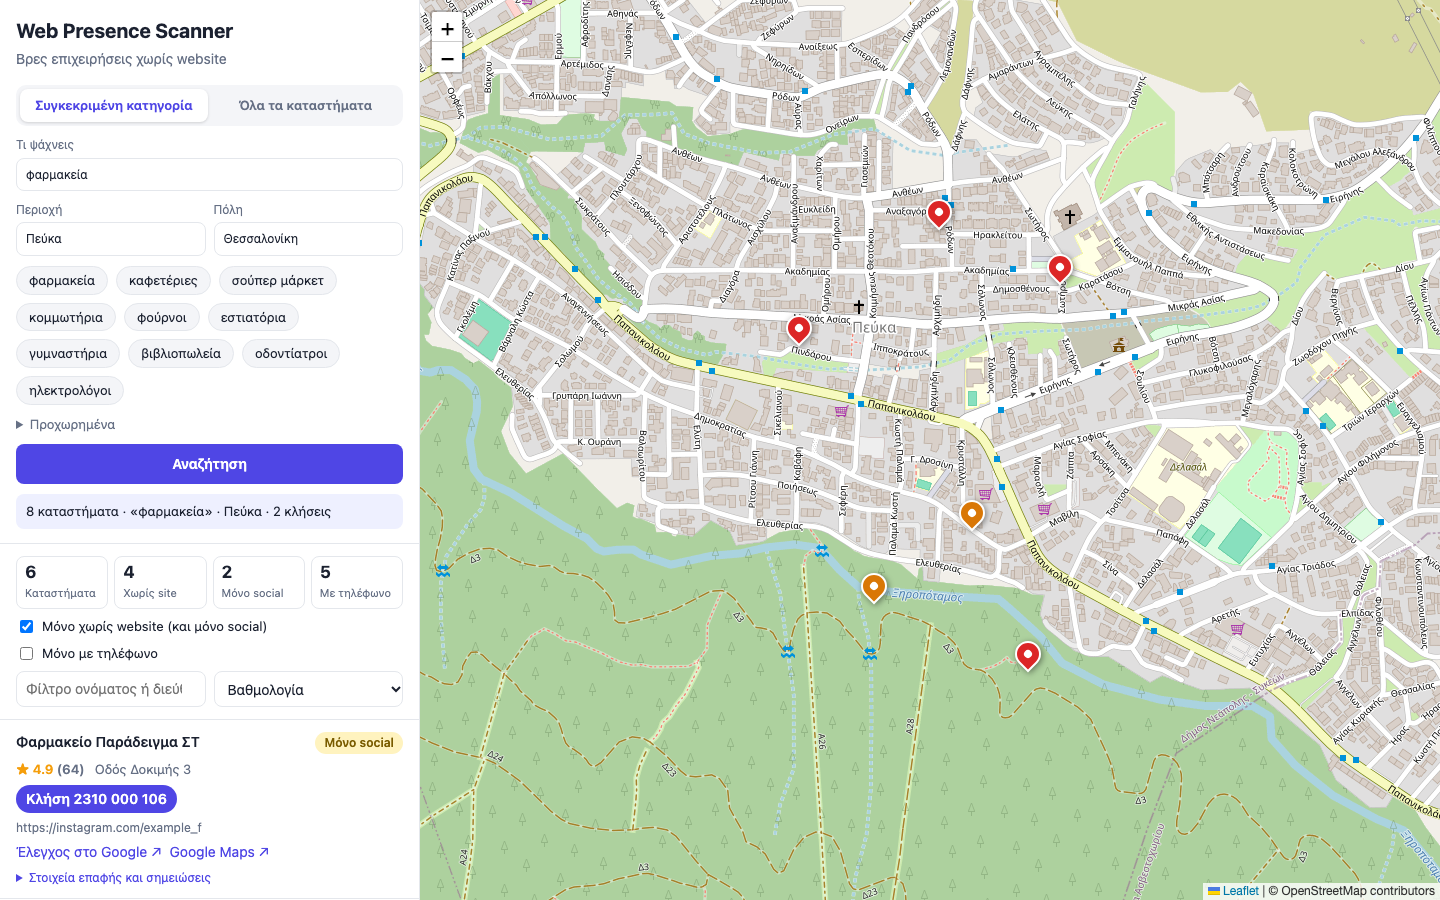
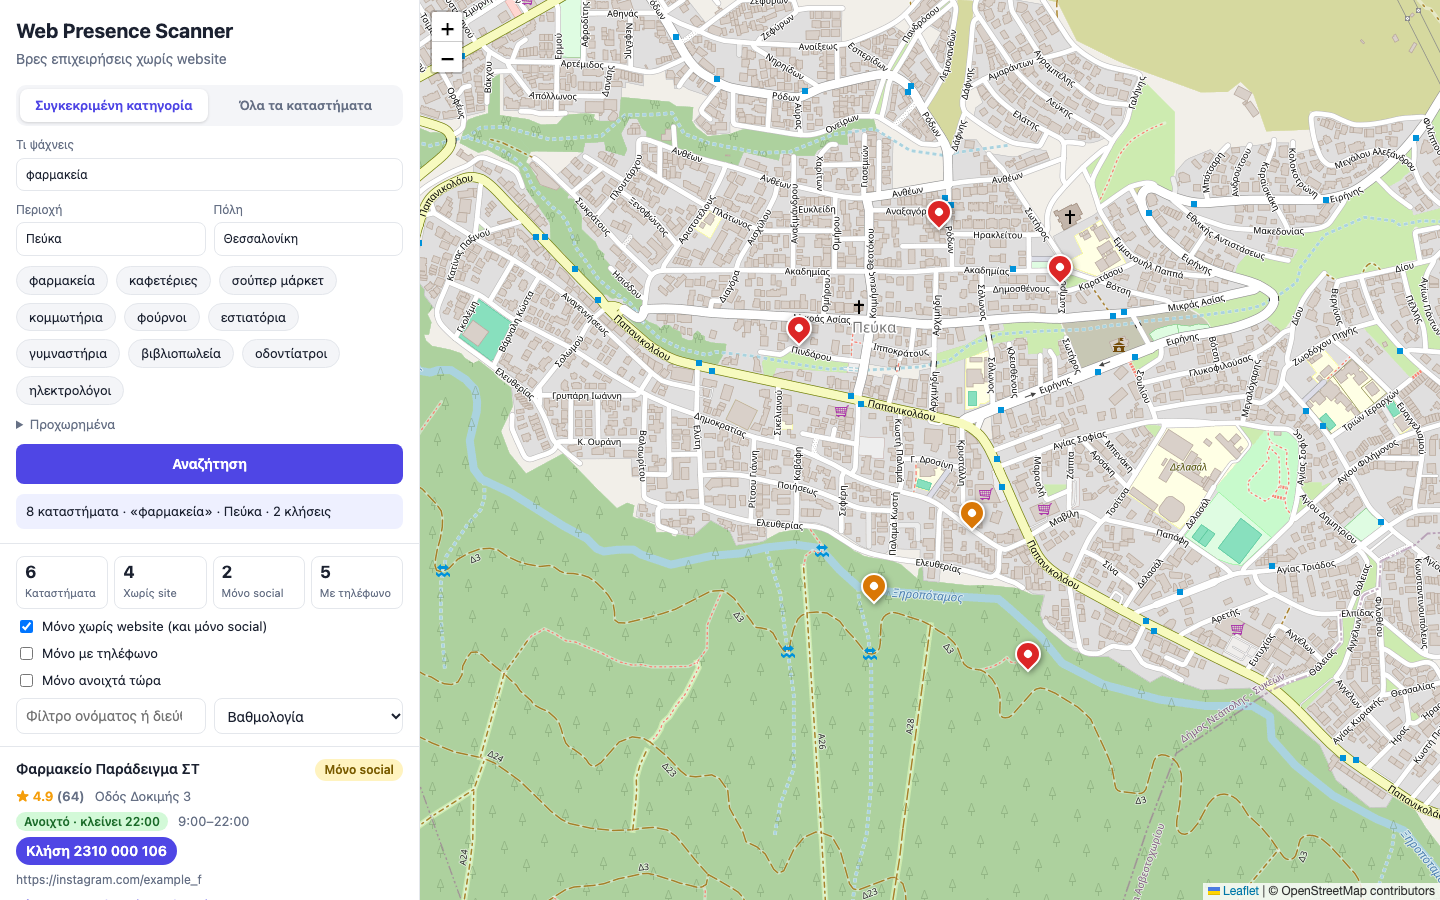
Show open/closed status and opening hours on every card
Parse weekday lines and periods from Google, compute open-now in the browser
(web/hours.js, tested under node), add an "only open now" filter.

Changed region(s): [[0.0, 0.7467, 0.2812, 1.0], [0.2188, 0.7778, 0.2812, 0.8711], [0.1562, 0.7467, 0.2188, 0.8089]]

diff --git a/web/google.js b/web/google.js
@@ -87,7 +87,20 @@ function contactInput(r, field, placeholder, type) {
   return input;
 }
 
+function openBadge(r, now) {
+  const status = openStatus(r, now);
+  return el("span", { className: "open open-" + status.state, textContent: status.label });
+}
+
+function weekList(r, now) {
+  if (!r.opening_hours || !r.opening_hours.length) return null;
+  const today = DAY_NAMES_EL[now.getDay()];
+  return el("ul", { className: "hours-week" },
+    ...r.opening_hours.map((line) => el("li", { className: line.startsWith(today) ? "today" : "", textContent: line })));
+}
+
 function card(r) {
+  const now = new Date();
   const phone = phoneOf(r);
   const href = r.website_url && safeHttpUrl(r.website_url);
 
@@ -115,13 +128,15 @@ function card(r) {
       contactInput(r, "manual_phone", "τηλέφωνο (δικό σου)", "text"),
       contactInput(r, "manual_email", "email", "email"),
       el("label", { className: "check" }, checkbox, " Έλεγξα στο Google: δεν έχει website"),
-      contact, notes));
+      contact, notes, ...(weekList(r, now) ? [el("div", {}, el("b", { textContent: "Ωράριο" }), weekList(r, now))] : [])));
   more.addEventListener("click", (e) => e.stopPropagation());
 
   const item = el("article", { className: "card-item s-" + r.contact_status + (r.place_id === selectedId ? " selected" : "") },
     el("div", { className: "card-title" }, el("span", { textContent: r.name }),
       el("span", { className: "badge " + BADGE_CLASS[r.site_status], textContent: SITE_LABELS[r.site_status] })),
     el("div", { className: "card-line" }, stars(r), el("span", { className: "muted", textContent: r.address || "" })),
+    el("div", { className: "card-line" }, openBadge(r, now),
+      el("span", { className: "muted", textContent: todayHours(r, now) })),
     el("div", { className: "card-actions" }, call));
   if (r.manual_email) item.querySelector(".card-actions").append(
     el("a", { href: "mailto:" + r.manual_email, textContent: r.manual_email, className: "card-meta" }));
@@ -139,6 +154,7 @@ function popupFor(r) {
   const body = el("div", { className: "popup" },
     el("b", { textContent: r.name }), stars(r),
     el("span", { className: "badge " + BADGE_CLASS[r.site_status], textContent: SITE_LABELS[r.site_status] }),
+    el("div", {}, openBadge(r, new Date())),
     el("div", { textContent: phoneOf(r) || "χωρίς τηλέφωνο" }));
   if (r.manual_email) body.append(el("div", { textContent: r.manual_email }));
   return body;
@@ -168,9 +184,11 @@ function selectPlace(r, fromMap) {
 
 function visible() {
   const text = $("text-filter").value.trim().toLowerCase();
+  const now = new Date();
   const list = results.filter((r) =>
     (!$("only-no-site").checked || r.site_status !== "has_site") &&
     (!$("only-phone").checked || phoneOf(r)) &&
+    (!$("only-open").checked || openStatus(r, now).state === "open") &&
     (!text || (r.name + " " + (r.address || "")).toLowerCase().includes(text)));
   const sort = $("sort").value;
   const by = { rating: (a, b) => (b.rating || 0) - (a.rating || 0), reviews: (a, b) => (b.rating_count || 0) - (a.rating_count || 0),
@@ -280,7 +298,7 @@ async function init() {
     chip.onclick = () => { $("query").value = c; $("area-name").focus(); };
     return chip;
   }));
-  ["only-no-site", "only-phone", "sort"].forEach((id) => $(id).addEventListener("change", render));
+  ["only-no-site", "only-phone", "only-open", "sort"].forEach((id) => $(id).addEventListener("change", render));
   $("text-filter").addEventListener("input", render);
   $("search-btn").onclick = start;
   $("tab-category").onclick = () => setMode("category");

diff --git a/web/hours.js b/web/hours.js
@@ -1,0 +1,55 @@
+// Opening-hours helpers. Pure functions, so they can be tested with node (tests/test_hours_js.py).
+// Google periods use day 0 = Sunday, like Date.getDay().
+const DAY_NAMES_EL = ["Κυριακή", "Δευτέρα", "Τρίτη", "Τετάρτη", "Πέμπτη", "Παρασκευή", "Σάββατο"];
+const WEEK_MIN = 7 * 1440;
+const pad2 = (n) => String(n).padStart(2, "0");
+const clock = (point) => `${pad2(point.hour)}:${pad2(point.minute || 0)}`;
+const minuteOfWeek = (point) => point.day * 1440 + point.hour * 60 + (point.minute || 0);
+
+function periodRange(period) {
+  const start = minuteOfWeek(period.open);
+  if (!period.close) return [start, start + WEEK_MIN];   // no closing time = open all the time
+  let end = minuteOfWeek(period.close);
+  if (end <= start) end += WEEK_MIN;                       // closes after midnight / next week
+  return [start, end];
+}
+
+function whenLabel(point, now) {
+  const today = now.getDay();
+  if (point.day === today) return "σήμερα";
+  if (point.day === (today + 1) % 7) return "αύριο";
+  return DAY_NAMES_EL[point.day];
+}
+
+// -> { state: "open" | "closed" | "unknown" | "gone", label }
+function openStatus(place, now = new Date()) {
+  if (place.business_status === "CLOSED_PERMANENTLY") return { state: "gone", label: "Έκλεισε οριστικά" };
+  if (place.business_status === "CLOSED_TEMPORARILY") return { state: "closed", label: "Κλειστό προσωρινά" };
+  const periods = place.opening_periods;
+  if (!periods || !periods.length) return { state: "unknown", label: "Ωράριο μη διαθέσιμο" };
+
+  const nowMin = now.getDay() * 1440 + now.getHours() * 60 + now.getMinutes();
+  for (const period of periods) {
+    const [start, end] = periodRange(period);
+    if ((nowMin >= start && nowMin < end) || (nowMin + WEEK_MIN >= start && nowMin + WEEK_MIN < end)) {
+      if (!period.close) return { state: "open", label: "Ανοιχτό 24 ώρες" };
+      return { state: "open", label: `Ανοιχτό · κλείνει ${clock(period.close)}` };
+    }
+  }
+  let next = null;
+  for (const period of periods) {
+    const wait = (minuteOfWeek(period.open) - nowMin + WEEK_MIN) % WEEK_MIN;
+    if (!next || wait < next.wait) next = { wait, period };
+  }
+  const when = whenLabel(next.period.open, now);
+  return { state: "closed", label: `Κλειστό · ανοίγει ${when} ${clock(next.period.open)}` };
+}
+
+// "8:00 π.μ.–9:00 μ.μ." for today, taken from Google's own weekday lines.
+function todayHours(place, now = new Date()) {
+  const name = DAY_NAMES_EL[now.getDay()];
+  const line = (place.opening_hours || []).find((l) => l.startsWith(name));
+  return line ? line.slice(line.indexOf(":") + 1).trim() : "";
+}
+
+if (typeof module !== "undefined") module.exports = { openStatus, todayHours };

diff --git a/web/style.css b/web/style.css
@@ -166,3 +166,11 @@ body.maps footer { margin-top: auto; padding: 12px 16px; font-size: 11px; }
 [hidden] { display: none !important; }
 .side-head { flex-direction: column; align-items: flex-start; gap: 2px; }
 .side-head h1 { font-size: 20px; white-space: nowrap; }
+
+.open { display: inline-block; padding: 1px 8px; border-radius: 999px; font-size: 12px; font-weight: 600; }
+.open.open-open { background: #d3f9d8; color: #1b6b2a; }
+.open.open-closed { background: #fde2e2; color: #9b1c1c; }
+.open.open-gone { background: #e5e7eb; color: #374151; text-decoration: line-through; }
+.open.open-unknown { background: var(--bg); color: var(--muted); font-weight: 400; }
+.hours-week { margin: 0; padding-left: 16px; font-size: 12px; color: var(--muted); }
+.hours-week li.today { color: var(--text); font-weight: 600; }

diff --git a/web/google.html b/web/google.html
@@ -57,6 +57,7 @@
       <div class="stats compact" id="stats"></div>
       <label class="check"><input id="only-no-site" type="checkbox" checked> Μόνο χωρίς website (και μόνο social)</label>
       <label class="check"><input id="only-phone" type="checkbox"> Μόνο με τηλέφωνο</label>
+      <label class="check"><input id="only-open" type="checkbox"> Μόνο ανοιχτά τώρα</label>
       <div class="two">
         <input id="text-filter" type="search" placeholder="Φίλτρο ονόματος ή διεύθυνσης">
         <select id="sort">
@@ -79,6 +80,7 @@
   <main id="map"></main>
 
   <script src="/static/vendor/leaflet.js"></script>
+  <script src="/static/hours.js"></script>
   <script src="/static/google.js"></script>
 </body>
 </html>

diff --git a/tests/test_hours_js.py b/tests/test_hours_js.py
@@ -1,0 +1,73 @@
+"""Runs web/hours.js under node. Skipped when node is not installed."""
+import json
+import shutil
+import subprocess
+from pathlib import Path
+
+import pytest
+
+HOURS_JS = Path(__file__).resolve().parents[1] / "web" / "hours.js"
+pytestmark = pytest.mark.skipif(shutil.which("node") is None, reason="node is not installed")
+
+
+def run(place, year_month_day_hour_min):
+    y, mo, d, h, mi = year_month_day_hour_min  # LOCAL time, month 1-12
+    script = f"""
+      const {{ openStatus, todayHours }} = require({json.dumps(str(HOURS_JS))});
+      const now = new Date({y}, {mo - 1}, {d}, {h}, {mi});
+      console.log(JSON.stringify({{ status: openStatus({json.dumps(place)}, now), today: todayHours({json.dumps(place)}, now) }}));
+    """
+    out = subprocess.run(["node", "-e", script], capture_output=True, text=True, check=True).stdout
+    return json.loads(out)
+
+
+def period(day, open_h, close_h, close_day=None):
+    return {"open": {"day": day, "hour": open_h, "minute": 0},
+            "close": {"day": day if close_day is None else close_day, "hour": close_h, "minute": 0}}
+
+
+MON_SAT = {"opening_periods": [period(d, 8, 21) for d in (1, 2, 3, 4, 5, 6)],
+           "opening_hours": ["Δευτέρα: 8:00 π.μ.–9:00 μ.μ.", "Τρίτη: 8:00 π.μ.–9:00 μ.μ.", "Κυριακή: Κλειστό"]}
+# 2026-10-05 is a Monday, 2026-10-04 a Sunday, 2026-10-06 a Tuesday.
+
+
+def test_open_during_hours_shows_closing_time_and_todays_line():
+    r = run(MON_SAT, (2026, 10, 5, 12, 30))
+    assert r["status"] == {"state": "open", "label": "Ανοιχτό · κλείνει 21:00"}
+    assert r["today"] == "8:00 π.μ.–9:00 μ.μ."
+
+
+def test_closed_in_the_evening_opens_tomorrow():
+    r = run(MON_SAT, (2026, 10, 5, 22, 0))
+    assert r["status"] == {"state": "closed", "label": "Κλειστό · ανοίγει αύριο 08:00"}
+
+
+def test_closed_before_opening_opens_today():
+    assert run(MON_SAT, (2026, 10, 5, 6, 0))["status"]["label"] == "Κλειστό · ανοίγει σήμερα 08:00"
+
+
+def test_closed_on_sunday_opens_monday_tomorrow():
+    r = run(MON_SAT, (2026, 10, 4, 11, 0))
+    assert r["status"]["label"] == "Κλειστό · ανοίγει αύριο 08:00"
+    assert r["today"] == "Κλειστό"
+
+
+def test_boundaries_open_at_opening_closed_at_closing():
+    assert run(MON_SAT, (2026, 10, 5, 8, 0))["status"]["state"] == "open"
+    assert run(MON_SAT, (2026, 10, 5, 21, 0))["status"]["state"] == "closed"
+
+
+def test_open_past_midnight():
+    bar = {"opening_periods": [period(5, 20, 2, close_day=6)]}  # Friday 20:00 -> Saturday 02:00
+    assert run(bar, (2026, 10, 10, 1, 0))["status"]["label"] == "Ανοιχτό · κλείνει 02:00"  # Saturday 01:00
+    assert run(bar, (2026, 10, 10, 3, 0))["status"]["state"] == "closed"
+
+
+def test_always_open_has_no_closing_time():
+    assert run({"opening_periods": [{"open": {"day": 0, "hour": 0, "minute": 0}, "close": None}]},
+               (2026, 10, 7, 3, 0))["status"] == {"state": "open", "label": "Ανοιχτό 24 ώρες"}
+
+
+def test_unknown_and_permanently_closed():
+    assert run({}, (2026, 10, 5, 12, 0))["status"]["state"] == "unknown"
+    assert run({**MON_SAT, "business_status": "CLOSED_PERMANENTLY"}, (2026, 10, 5, 12, 0))["status"]["state"] == "gone"

diff --git a/finder/sources/google_places.py b/finder/sources/google_places.py
@@ -41,12 +41,13 @@ class GooglePlace:
     address: str | None
     phone: str | None
     website_url: str | None
-    opening_hours: str | None
+    opening_hours: list[str] | None  # one line per weekday, in Greek ("Δευτέρα: 8:00–21:00")
     lat: float | None
     lon: float | None
     rating: float | None
     rating_count: int | None
     business_status: str | None
+    opening_periods: list[dict] | None = None  # [{"open": {day, hour, minute}, "close": {...}}], day 0 = Sunday
 
 
 def month_key() -> str:
@@ -85,21 +86,31 @@ def lead_status(website_url: str | None) -> str:
     return "social_only" if is_social(url) else "has_site"
 
 
+def _clock(point: dict) -> dict:
+    return {"day": point.get("day", 0), "hour": point.get("hour", 0), "minute": point.get("minute", 0)}
+
+
 def parse_place(p: dict) -> GooglePlace:
     location = p.get("location", {})
-    hours = p.get("regularOpeningHours", {}).get("weekdayDescriptions")
+    opening = p.get("regularOpeningHours", {})
+    hours = opening.get("weekdayDescriptions")
+    periods = [
+        {"open": _clock(per["open"]), "close": _clock(per["close"]) if per.get("close") else None}
+        for per in opening.get("periods", []) if per.get("open")
+    ]
     return GooglePlace(
         place_id=p["id"],
         name=p.get("displayName", {}).get("text", ""),
         address=p.get("formattedAddress"),
         phone=p.get("nationalPhoneNumber"),
         website_url=p.get("websiteUri"),
-        opening_hours="; ".join(hours) if hours else None,
+        opening_hours=hours or None,
         lat=location.get("latitude"),
         lon=location.get("longitude"),
         rating=p.get("rating"),
         rating_count=p.get("userRatingCount"),
         business_status=p.get("businessStatus"),
+        opening_periods=periods or None,
     )
 
 

diff --git a/scripts/demo_server.py b/scripts/demo_server.py
@@ -36,6 +36,18 @@ FAKE = [
 ]
 
 
+def _hours(open_h, close_h, days=(1, 2, 3, 4, 5, 6)):
+    """Fictional weekday opening hours, in the same shape Google returns."""
+    names = {0: "Κυριακή", 1: "Δευτέρα", 2: "Τρίτη", 3: "Τετάρτη", 4: "Πέμπτη", 5: "Παρασκευή", 6: "Σάββατο"}
+    lines = [f"{names[d]}: {open_h}:00–{close_h}:00" if d in days else f"{names[d]}: Κλειστό" for d in (1, 2, 3, 4, 5, 6, 0)]
+    periods = [{"open": {"day": d, "hour": open_h, "minute": 0}, "close": {"day": d, "hour": close_h, "minute": 0}} for d in days]
+    return lines, periods
+
+
+HOURS = [_hours(8, 21), _hours(9, 15, (1, 2, 3, 4, 5)), _hours(8, 23, (0, 1, 2, 3, 4, 5, 6)), _hours(10, 14),
+         _hours(8, 21), _hours(9, 22, (0, 1, 2, 3, 4, 5, 6)), _hours(8, 15), _hours(17, 21)]
+
+
 class FakeClient:
     """Stands in for GooglePlacesClient: same interface, fictional data, no network."""
 
@@ -52,8 +64,8 @@ class FakeClient:
         self.calls_made = 2
         db.add_usage(self.conn, gp.month_key(), 2)
         places = [
-            gp.GooglePlace(f"demo-{i}", name, addr, phone, site, None, CENTER[0] + dlat, CENTER[1] + dlon,
-                           rating, count, "OPERATIONAL")
+            gp.GooglePlace(f"demo-{i}", name, addr, phone, site, HOURS[i][0], CENTER[0] + dlat, CENTER[1] + dlon,
+                           rating, count, "OPERATIONAL", HOURS[i][1])
             for i, (name, dlat, dlon, phone, site, rating, count, addr) in enumerate(FAKE)
         ]
         return places, False

diff --git a/tests/test_google.py b/tests/test_google.py
@@ -209,3 +209,17 @@ def test_all_mode_endpoint_uses_adaptive_and_budget(api, monkeypatch):
     r = api.post("/api/google/search", json={"query": "καταστήματα", "area": AREA, "mode": "all", "max_calls": 15}).json()
     assert len(r["results"]) == 2 and r["calls_used_now"] == 1 and r["stop_reason"] == ""
     assert api.post("/api/google/search", json={"query": "καταστήματα", "area": AREA, "mode": "all", "max_calls": 1000}).status_code == 422
+
+
+def test_parse_place_keeps_weekday_lines_and_periods():
+    raw = place(1, regularOpeningHours={
+        "openNow": True,
+        "periods": [{"open": {"day": 1, "hour": 8, "minute": 0}, "close": {"day": 1, "hour": 21, "minute": 0}},
+                    {"open": {"day": 0, "hour": 0, "minute": 0}}],
+        "weekdayDescriptions": ["Δευτέρα: 8:00 π.μ.–9:00 μ.μ."],
+    })
+    parsed = gp.parse_place(raw)
+    assert parsed.opening_hours == ["Δευτέρα: 8:00 π.μ.–9:00 μ.μ."]
+    assert parsed.opening_periods[0] == {"open": {"day": 1, "hour": 8, "minute": 0}, "close": {"day": 1, "hour": 21, "minute": 0}}
+    assert parsed.opening_periods[1]["close"] is None
+    assert gp.parse_place(place(2)).opening_periods is None

diff --git a/README.md b/README.md
@@ -12,7 +12,7 @@ Finds local businesses (cafes, pharmacies, shops, ...) that have **no website** 
   - **OpenStreetMap** (Nominatim + Overpass): free, can be stored; phone numbers are often missing.
   - **Google Places API (New)**: phone, website, rating and opening hours; shown live and never stored.
 - **Lead classification**: `none` (no website listed), `dead` (DNS/TLS/connection error, timeout, 4xx/5xx), `social_only` (Facebook, Instagram, Linktree, ...), `alive`.
-- **Greek dashboard**, Google-Maps style: search and result cards on the left (rating, website status, phone, your own email/notes), coloured pins on the map on the right. Two modes: one category ("φαρμακεία") or **all businesses** in an area, split automatically where Google caps results. Click-to-call, manual phone/email entry, a "verified: I checked on Google" tick, contact status, filters and sorting.
+- **Greek dashboard**, Google-Maps style: search and result cards on the left (rating, website status, phone, your own email/notes), coloured pins on the map on the right. Two modes: one category ("φαρμακεία") or **all businesses** in an area, split automatically where Google caps results. **Open now / closed** shown on every card (with today's hours and a "only open now" filter), so you know whether it is a good moment to call. Click-to-call, manual phone/email entry, a "verified: I checked on Google" tick, contact status, filters and sorting.
 - **Ambiguous place names** (there are many "Πεύκα" in Greece) show a list of candidates to pick from.
 - **Cost guard** for Google: every request is counted, and a hard monthly limit stops the tool before the free tier ends.
 - **Do-not-call** flag that removes a business from every list.
